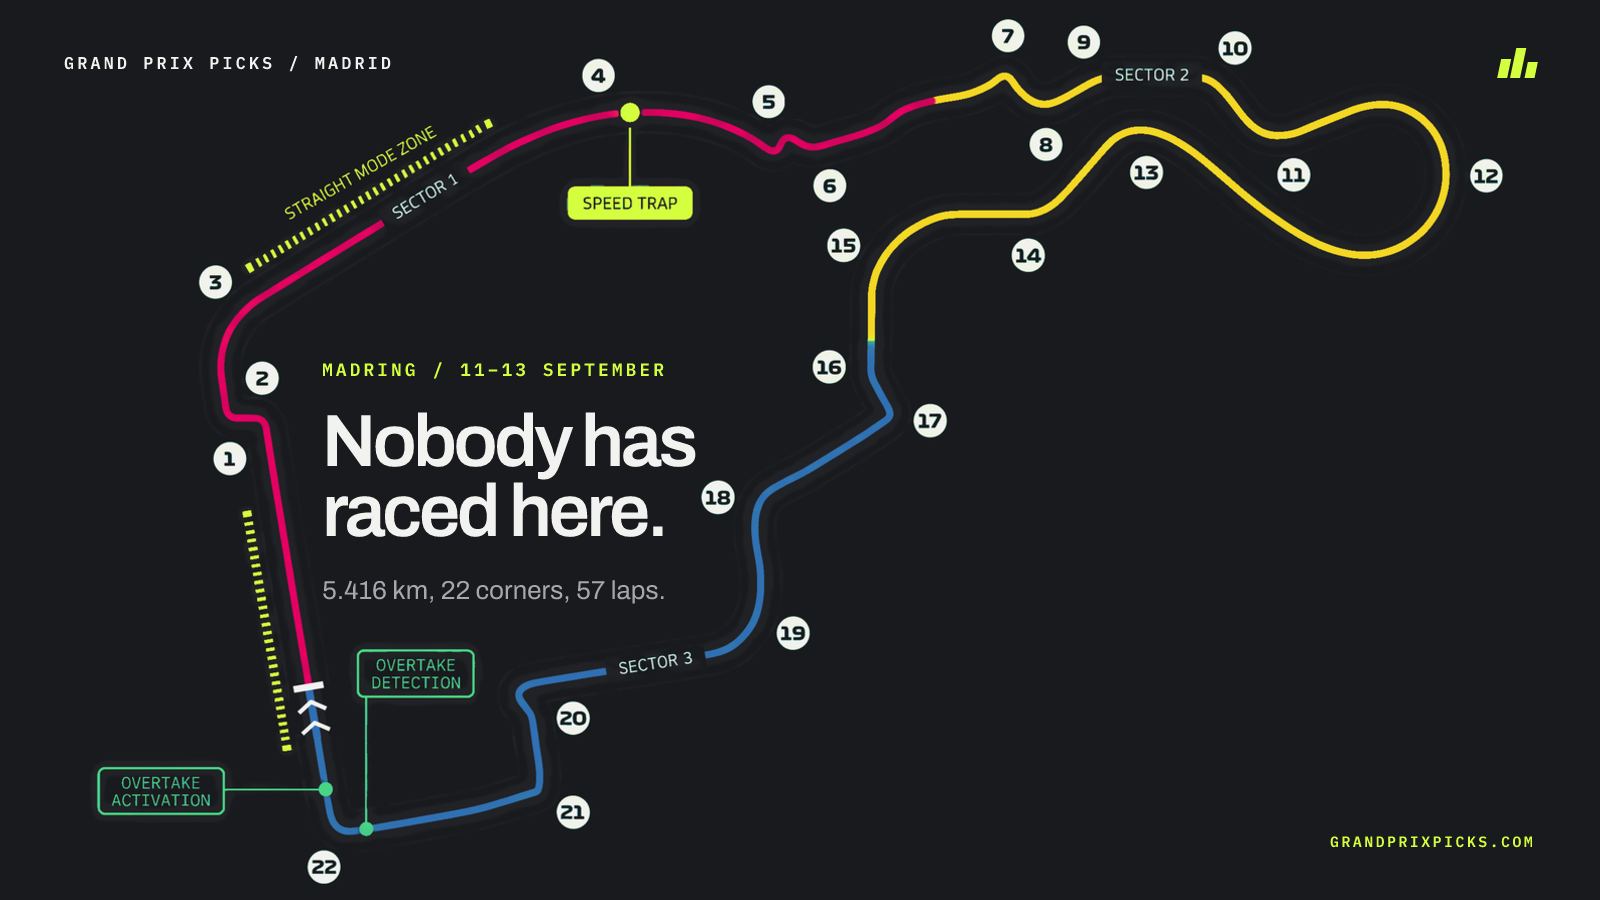
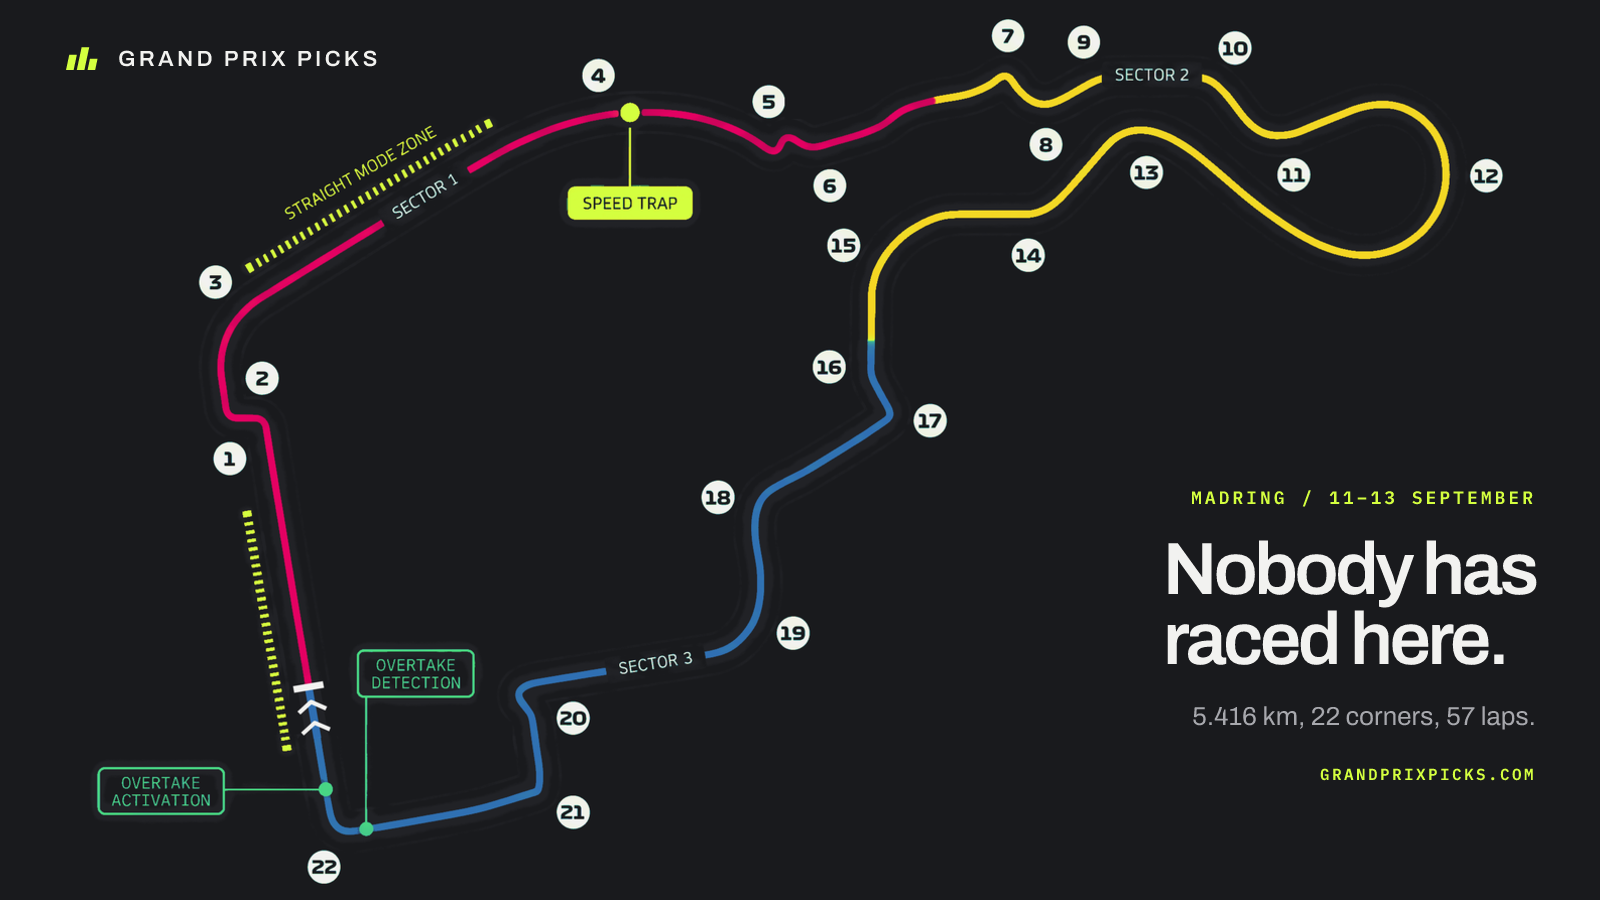
Move the Madrid post's type out of the lap
The X card set its headline inside the loop the circuit draws, which put
it a badge's width from Turn 18 and made it read as part of the diagram.
It goes in the empty ground bottom right instead, right-aligned to the
gutter the logo sits on, and the map is left alone.

Both cards now carry the real logo: the mark from templates.ts with the
wordmark beside it, rather than the three skewed divs this script had
been drawing. A near-miss of the logo is worse than none.

Copy is off the write-up's own facts: Turn 12 as the longest banked
corner on the calendar rather than a line about practice. Neither post
sets a platform AI flag: the map is a schematic, not a photograph.

Claude-Session: https://claude.ai/code/session_01G2qKfMJWbkKPcTFg2SVUYV

diff --git a/artifacts/social/madrid-lap-map-2026/campaign.md b/artifacts/social/madrid-lap-map-2026/campaign.md
@@ -17,6 +17,17 @@ what the corners do.
 Monday, 7 September at 18:30 SAST. Race week starts the following Thursday, so
 this is the lead-in rather than the weekend post.
 
+## Composition
+
+Both cards carry the logo lockup: the app's own SVG mark from
+`src/lib/og/templates.ts` with the wordmark beside it, never a redrawn
+lookalike.
+
+On X the map is the whole frame and the type sits in the ground the lap does
+not reach, bottom right, aligned to the same gutter the logo sits on. Type
+dropped into the middle of the lap reads as part of the diagram, and it landed
+a badge's width from Turn 18.
+
 ## Format
 
 | Channel   | Asset                               | Size      |
@@ -32,16 +43,16 @@ The art is the write-up's own map, kept as a PNG in `source-art/` because
 satori cannot decode the WebP the site serves. Re-export it whenever the map
 changes, or the post and the page drift apart.
 
-**The map is AI-generated artwork**, recoloured onto the design tokens. Both
-posts set the platform AI disclosure flag, as the Monza roundup did for its
-collage slides.
+The map is an illustration: generated art, recoloured onto the design tokens
+and corrected by hand. It is a schematic of a circuit, not a photograph and not
+a depiction of anybody, so neither post sets a platform AI flag.
 
 ## X
 
 > Formula 1 has never raced at the Madring.
 >
-> 22 corners, 5.416 km, and a 550 m banked right at Turn 12. No form guide for
-> this one: practice is the whole story.
+> 22 corners, 5.416 km, and a 550 m banked right at Turn 12: the longest banked
+> corner on the calendar, estimated at 250 kph and about 4G.
 >
 > The Madrid guide:
 > https://grandprixpicks.com/f1-2026-madrid-grand-prix-predictions?utm_source=x&utm_medium=organic&utm_campaign=madrid_lap_map_2026
@@ -52,8 +63,9 @@ No hashtags.
 
 > Formula 1 has never raced at the Madring.
 >
-> 22 corners, 5.416 km, 57 laps, and a 550 m banked right at Turn 12 that
-> decides ride height all weekend.
+> 22 corners, 5.416 km, 57 laps. Turn 12 is a 550 m banked right, the longest
+> banked corner on the calendar, estimated at 250 kph and about 4G for a couple
+> of seconds.
 >
 > The full Madrid guide is linked from our profile.
 >
@@ -68,6 +80,7 @@ Use the write-up as the profile link while this post is current.
 | 5.416 km, 22 corners       | Madrid write-up layout table, from Formula 1 |
 | 57 laps                    | Madrid write-up layout table                 |
 | Turn 12, 550 m, 24 percent | Madrid write-up, sourced to The Race         |
+| 250 kph and about 4G       | The Race, carried as an estimate on the page |
 | No previous F1 race        | Madrid write-up: the circuit debuts in 2026  |
 
 The map's straight-mode zones and Overtake points are the artwork's own and are
